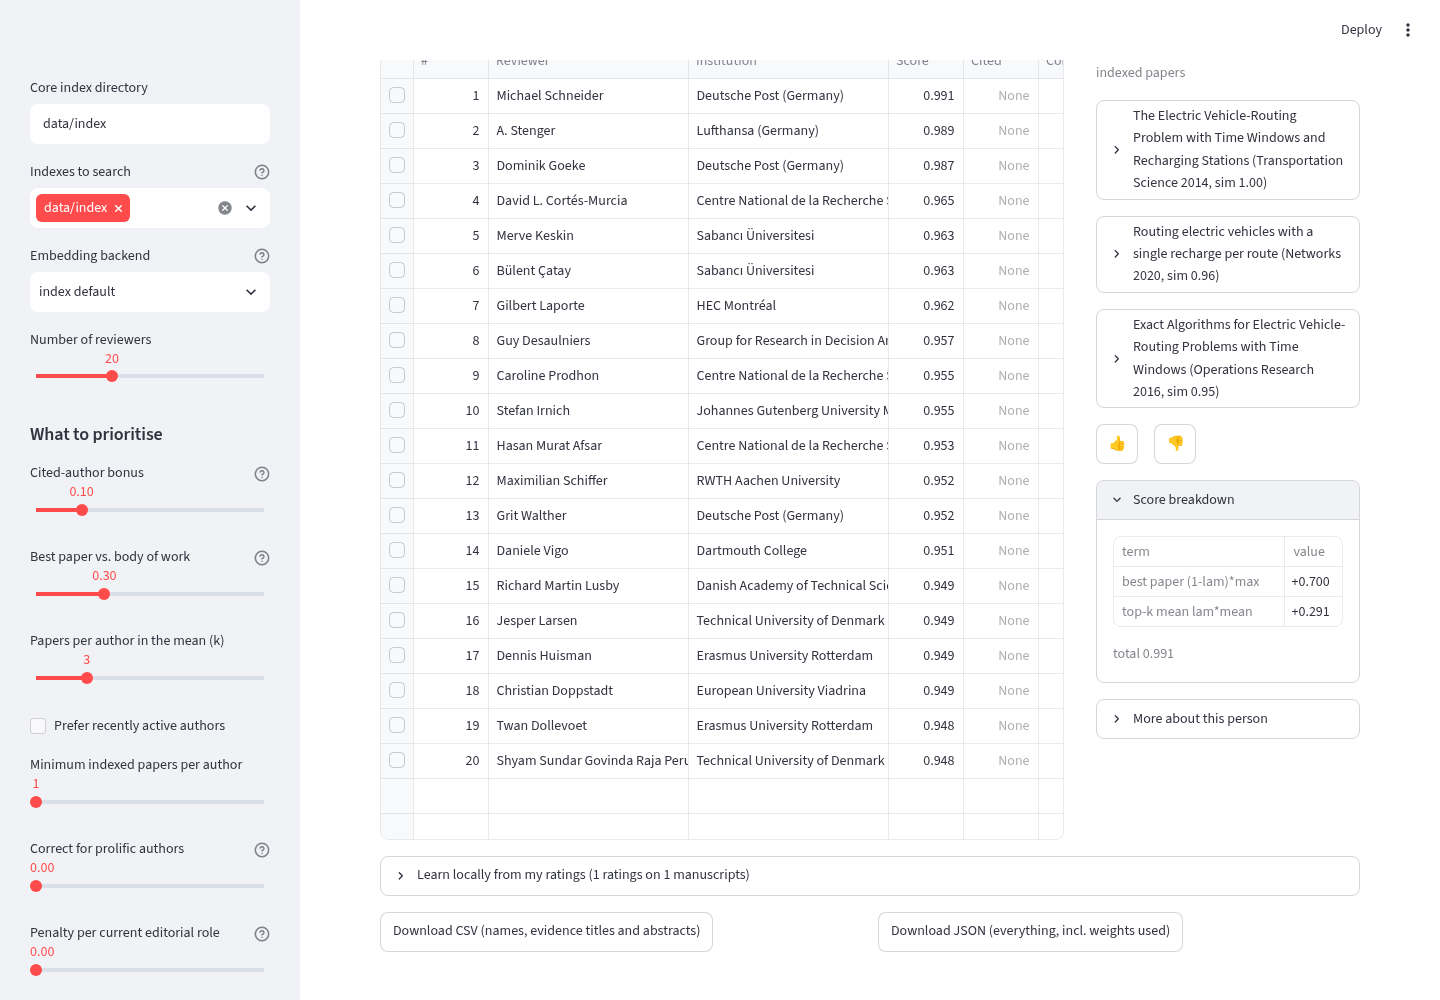
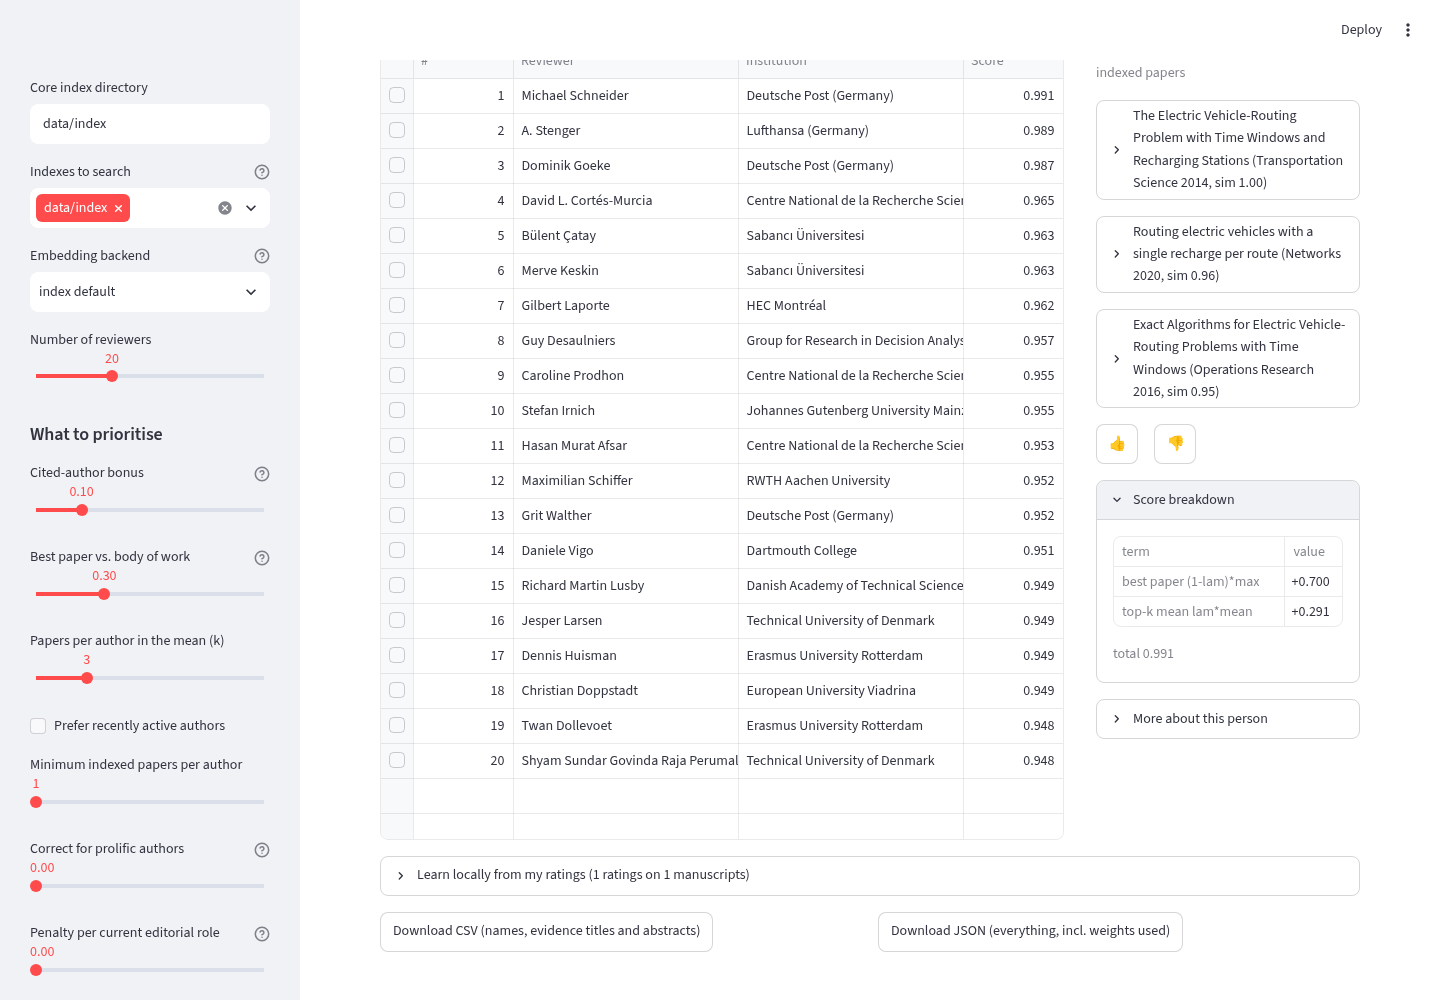
UI: hide empty Cited/Conflict columns, blank zeros; refreshed screenshots

diff --git a/src/kindred/ui_app.py b/src/kindred/ui_app.py
@@ -282,13 +282,19 @@ if have_input:
             "Reviewer": r.get("author_name"),
             "Institution": (r.get("institution") or "").split(";")[0][:40],
             "Score": round(float(r["score"]), 3),
-            "Cited": r.get("n_cited", 0) or None,
+            "Cited": str(r["n_cited"]) if r.get("n_cited") else "",
             "Conflict?": r.get("coi") or "",
         })
     table = pd.DataFrame(rows)
     n_coi = sum(1 for r in res["reviewers"] if r.get("coi"))
+    # columns that carry no information for this manuscript are hidden so the rest has room
+    if not any(r.get("n_cited") for r in res["reviewers"]):
+        table = table.drop(columns=["Cited"])
+    if not n_coi:
+        table = table.drop(columns=["Conflict?"])
     def _hl(row):
-        return ["background-color: #ffe0e0; color: #7a0000" if row["Conflict?"] else "" for _ in row]
+        flag = row.get("Conflict?", "") if hasattr(row, "get") else ""
+        return ["background-color: #ffe0e0; color: #7a0000" if flag else "" for _ in row]
     styled = table.style.apply(_hl, axis=1)
     left, right = st.columns([5, 2], gap="medium")
     with left:
@@ -302,7 +308,7 @@ if have_input:
                                "Reviewer": st.column_config.TextColumn(width="medium"),
                                "Institution": st.column_config.TextColumn(width="medium"),
                                "Score": st.column_config.NumberColumn(width="small", format="%.3f"),
-                               "Cited": st.column_config.NumberColumn(width="small"),
+                               "Cited": st.column_config.TextColumn(width="small"),
                                "Conflict?": st.column_config.TextColumn(width="large"),
                            })
         picked = sel.selection.rows[0] if sel and sel.selection and sel.selection.rows else 0
